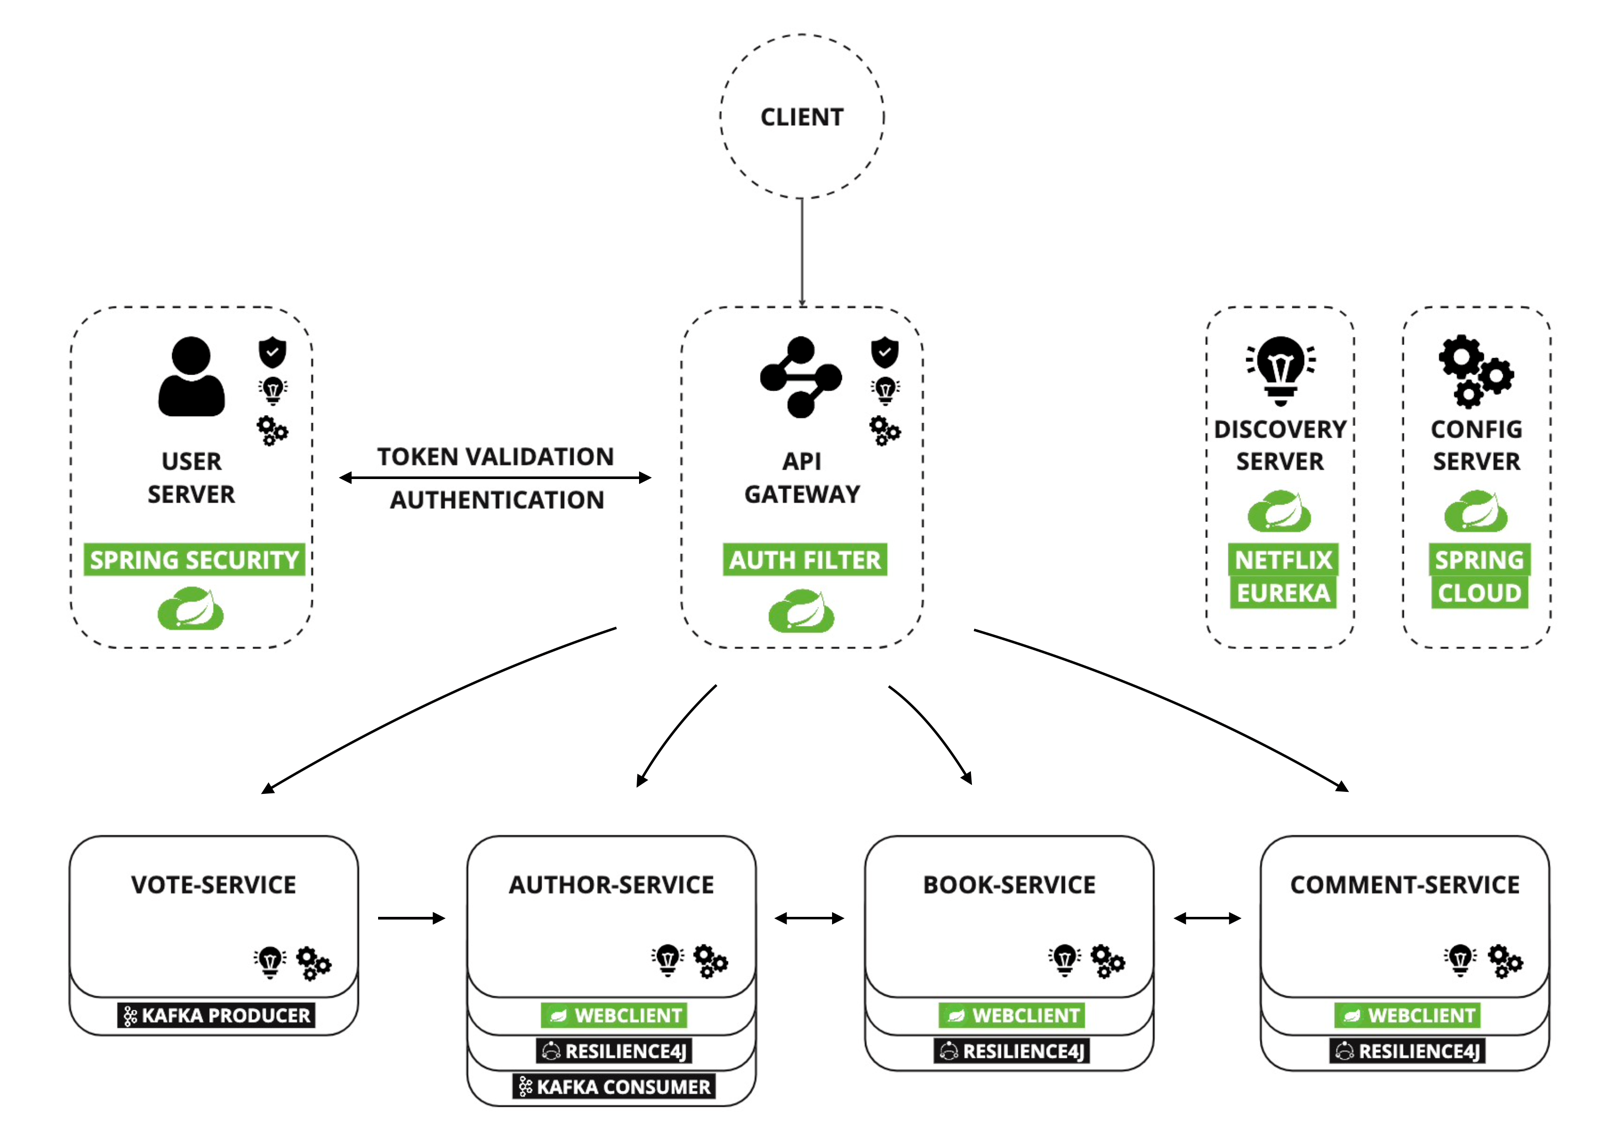
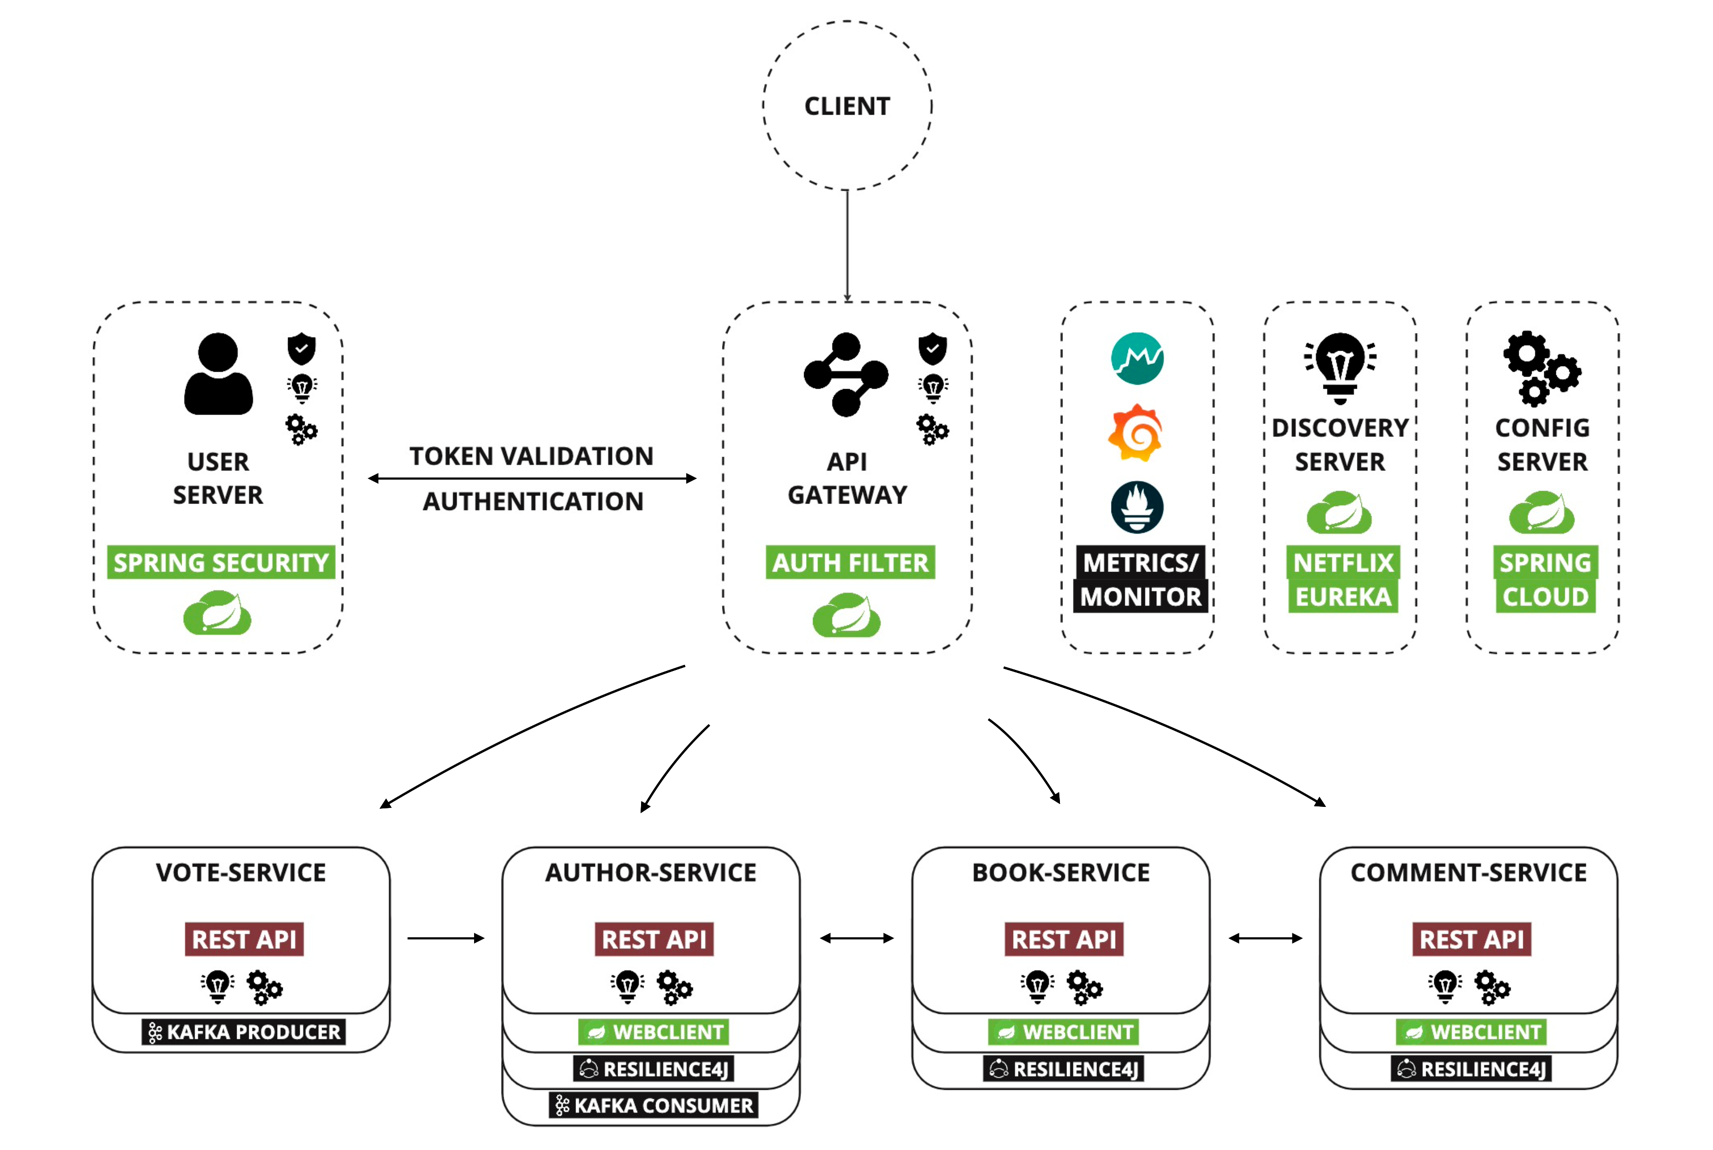
v.1.00

diff --git a/README.md b/README.md
@@ -40,7 +40,7 @@ Allows users to perform operations on books, view detailed information such as t
   | GET    | /api/v1/genres                | Get all genres, sorted by name in ascending order                      |
 
 ### Author Service
-Provides author profiles, including biographical information and statistics. Users can search for authors and explore their data.
+Provides author profiles, including biographical information and statistics. Users can search for authors and explore their data. This service class consumes messages from the Kafka topic related to author votes. It processes these messages, updates the corresponding author's information based on the received vote, and persists the changes.
 
   | Method | Path                            | Description                                            |
   |--------|---------------------------------|--------------------------------------------------------|
@@ -67,6 +67,13 @@ Implements secure user registration, authentication via username/password, and J
   | POST   | /api/v1/auth/validate | Validate a token                                   |
   | GET    | /api/v1/user/my       | Get account information for the authenticated user |
   | GET    | /api/v1/user/{id}     | Get information for a specific user                |
+
+### Vote Service
+Manages votes from users for authors. It encompasses functionalities for receiving, handling, and processing votes initiated by users through RESTful APIs. Additionally, it includes the capability to send messages related to author votes to a Kafka topic using a reactive Kafka producer.
+
+| Method | Path                  | Description     |
+|--------|-----------------------|-----------------|
+| POST   | /api/v1/vote/author   | Vote for author |
 
 ## Metrics and Monitoring
 
